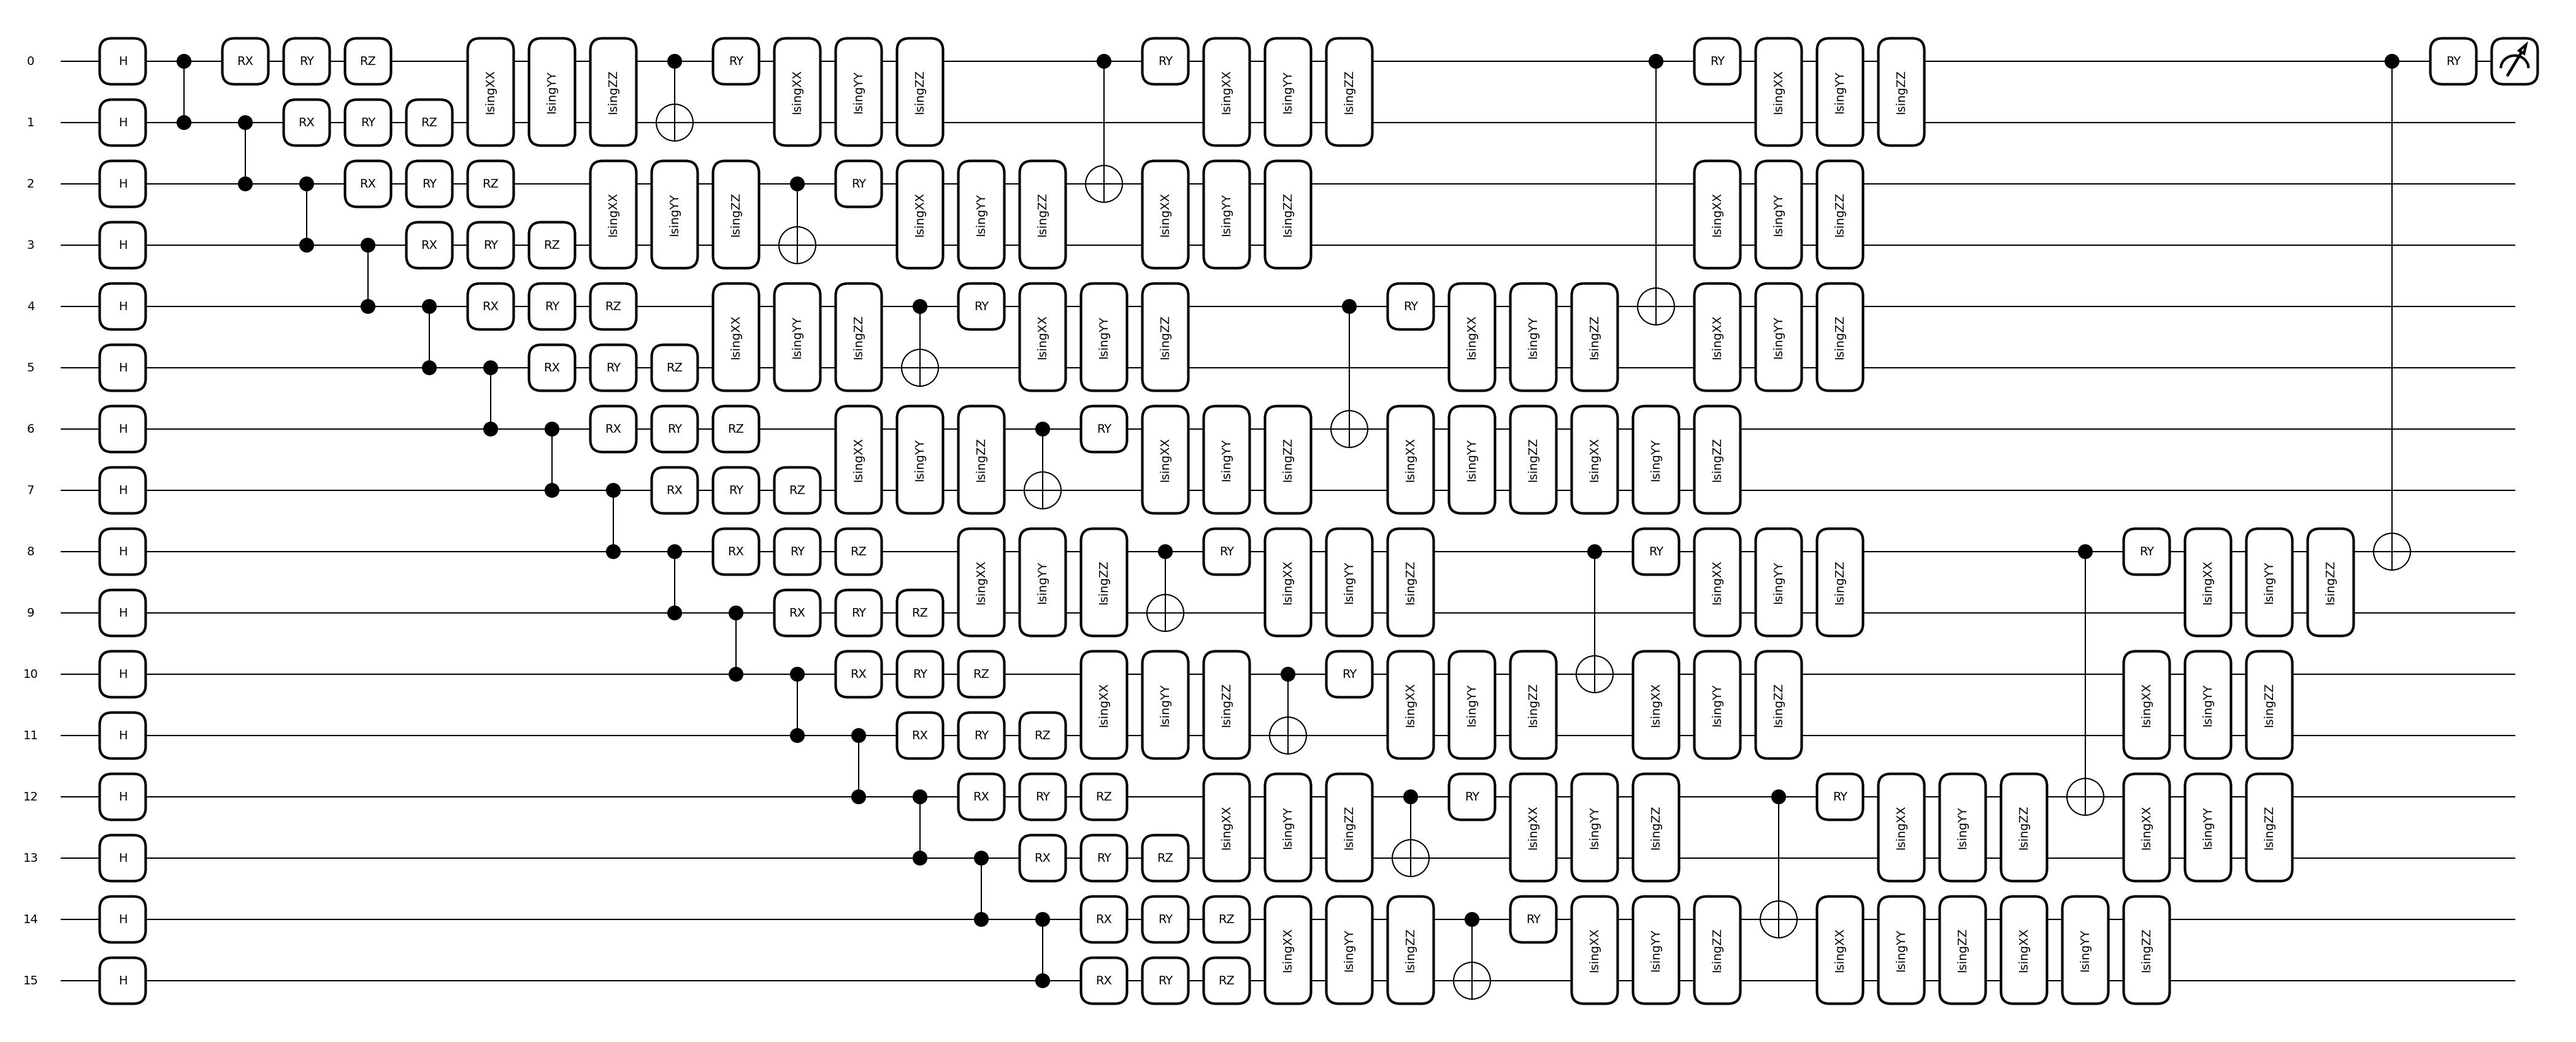
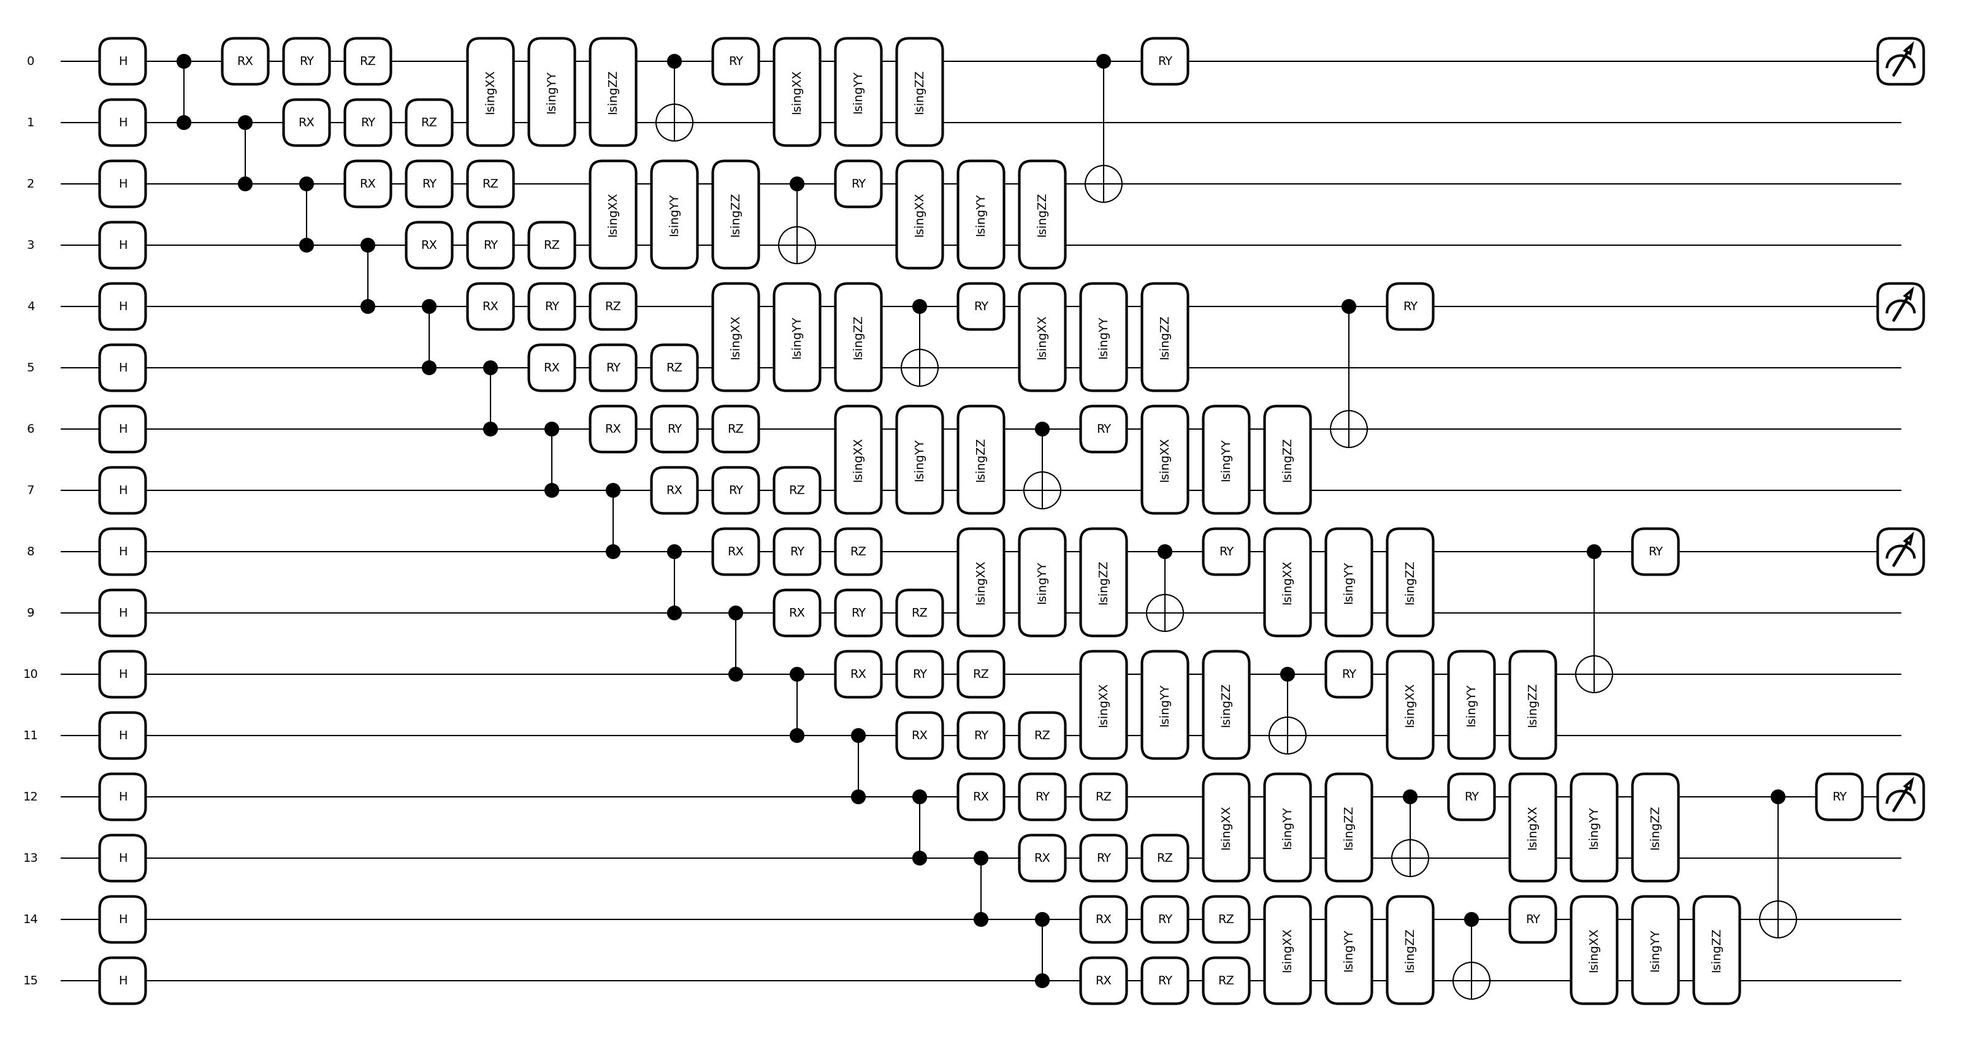
Added pure quantum NN

diff --git a/quantum_NN/quantum_nn.py b/quantum_NN/quantum_nn.py
@@ -1,76 +1,290 @@
+import torch
+import torch.nn as nn
+from torch.utils.data import DataLoader, TensorDataset
 import pennylane as qml
+from pennylane.qnn import TorchLayer
 import numpy as np
+import pickle as pkl
+import os
+import matplotlib.pyplot as plt
+import seaborn as sns
+from sklearn.metrics import confusion_matrix
+from tqdm import tqdm
+import math
 
+# ======== CONFIG =========
 NUM_QUBITS = 16
+NUM_CLASSES = 9
+LEARNING_RATE = 0.01
+BATCH_SIZE = 8
+EPOCHS = 50
+
+device = "cpu"
+
+# ======== DATA LOADING =========
+def open_pkl(path):
+    with open(path, 'rb') as f:
+        return pkl.load(f)
+
+def load_dataset(feature_type):
+    base = f"q_dataset/{feature_type}_features"
+    X_train = torch.stack(open_pkl(os.path.join(base, "mera_features_Train.pkl")))
+    y_train = torch.tensor(open_pkl(os.path.join(base, "mera_labels_Train.pkl"))).long()
+
+    X_test = torch.stack(open_pkl(os.path.join(base, "mera_features_Test.pkl")))
+    y_test = torch.tensor(open_pkl(os.path.join(base, "mera_labels_Test.pkl"))).long()
+
+    X_val = X_train[2175:]
+    y_val = y_train[2175:]
+    X_train = X_train[:2175]
+    y_train = y_train[:2175]
+
+    return (X_train, y_train), (X_val, y_val), (X_test, y_test)
+
+# ======== QCNN DEFINITION =========
 dev = qml.device("lightning.qubit", wires=NUM_QUBITS)
 
-# ---- State Preparation Layer (H + CZ for cluster state) ----
-def state_preparation():
-    # Apply haramard gate on all 16 qubits
-    """
-    $$
-\frac{1}{\root{}\of{2}}
-\begin{bmatrix}
-1 & 1 \\ 1 & -1
-\end{bmatrix}
-    $$
-    """
-    for i in range(NUM_QUBITS):
-        qml.Hadamard(wires=i)
+# -----------------------------------------------------------
+# Compute the number of trainable parameters in the QCNN model.
+#
+# 1. num_blocks:
+#    Determines how many conv + pool blocks the network will have.
+#    Since each pooling halves the number of qubits, the number of 
+#    blocks is log2(NUM_QUBITS) - 2 so that we stop when we have 4 qubits.
+#    e.g., for 32 qubits: log2(32) = 5 -> num_blocks = 3
+#
+# 2. total_conv_weights:
+#    For each block i, number of qubit pairs = NUM_QUBITS // 2^i - 1.
+#    Each pair has 3 parameters (IsingXX, IsingYY, IsingZZ).
+#    So for each block: (num_pairs) × 3
+#    e.g., for 32 qubits:
+#         Block 0: 15 pairs -> 45 params
+#         Block 1: 7 pairs -> 21 params
+#         Block 2: 3 pairs -> 9 params
+#         Total = 75 conv weights
+#
+# 3. total_pool_weights:
+#    For each block, after pooling, we keep half the qubits.
+#    Each of the kept qubits gets a single RY(θ) -> 1 param per kept qubit.
+#    e.g., for 32 qubits:
+#         Block 0: 16 kept -> 16 weights
+#         Block 1: 8 kept -> 8 weights
+#         Block 2: 4 kept -> 4 weights
+#         Total = 28 pool weights
+#
+# 4. total_params:
+#    Sum of conv + pool weights -> total number of weights to train.
+#
+# 5. weight_shapes:
+#    Passed into TorchLayer to initialize a flat trainable vector 
+#    of shape (total_params,), which will be sliced block-wise later.
+# -----------------------------------------------------------
+num_blocks = int(math.log2(NUM_QUBITS) - 2)
+total_conv_weights = sum((NUM_QUBITS // (2 ** i) - 1) * 3 for i in range(num_blocks))
+total_pool_weights = sum(NUM_QUBITS // (2 ** (i + 1)) for i in range(num_blocks))
+total_params = total_conv_weights + total_pool_weights
 
-    # Apply Controlled-Z gate on the two
-    # subsequent qubits
-    for i in range(NUM_QUBITS - 1):
-        qml.CZ(wires=[i, i + 1])
+weight_shapes = {"weights": (total_params,)}
 
-# ---- Feature Encoding Layer ----
-def encode_features(x):
-    # Encode each feature with RX, RY, RZ rotation
-    for i in range(NUM_QUBITS):
-        qml.RX(x[i], wires=i)
-        qml.RY(x[i], wires=i)
-        qml.RZ(x[i], wires=i)
+@qml.qnode(dev, interface="torch")
+def qcnn(inputs, weights):
+    def state_preparation():
+        for i in range(NUM_QUBITS):
+            qml.Hadamard(wires=i)
+        for i in range(NUM_QUBITS - 1):
+            qml.CZ(wires=[i, i + 1])
 
-# ---- Convolution Layer (Non-trainable for now) ----
-def conv_layer():
-    """
-    Introduces entanglement between qubits
-    Captures Correlations across both qubits
-    Acts like a quantum Conv filter
-    """
-    for i in range(0, NUM_QUBITS - 1, 2):
-        qml.IsingXX(np.pi/4, wires=[i, i+1])
-        qml.IsingYY(np.pi/4, wires=[i, i+1])
-        qml.IsingZZ(np.pi/4, wires=[i, i+1])
+    def encode_features(x):
+        for i in range(NUM_QUBITS):
+            qml.RX(x[i], wires=i)
+            qml.RY(x[i], wires=i)
+            qml.RZ(x[i], wires=i)
 
-# ---- Pooling Layer (reduce qubits by half) ----
-def pooling_layer(qubits):
-    """
-    Reduces the number of qubits by doing CNOT and RY
-    and only keeping the control qubits
-    """
-    new_qubits = []
-    for i in range(0, len(qubits), 2):
-        control, target = qubits[i], qubits[i+1]
-        qml.CNOT(wires=[control, target])
-        qml.RY(np.pi/4, wires=control)
-        new_qubits.append(control)  # Keep only control
-    return new_qubits
+    def conv_layer(qubits, weights):
+        for w_idx, i in enumerate(range(0, len(qubits) - 1, 2)):
+            qml.IsingXX(
+                weights[w_idx][0], wires=[qubits[i], qubits[i+1]]
+            )
+            qml.IsingYY(
+                weights[w_idx][1], wires=[qubits[i], qubits[i+1]]
+            )
+            qml.IsingZZ(
+                weights[w_idx][2], wires=[qubits[i], qubits[i+1]]
+            )
+            
+    def pooling_layer(qubits, theta):
+        new_qubits = []
+        for i in range(0, len(qubits), 2):
+            control, target = qubits[i], qubits[i+1]
+            qml.CNOT(wires=[control, target])
+            qml.RY(theta[i//2], wires=control)
+            new_qubits.append(control)
+        return new_qubits
 
-# ---- Full QCNN ----
-@qml.qnode(dev)
-def qcnn_forward(x):
     state_preparation()
-    encode_features(x)
+    encode_features(inputs)
 
-    qubits = list(range(NUM_QUBITS))  # 16 → 8 → 4 → 2 → 1
+    qubits = list(range(NUM_QUBITS))
+    idx = 0
+    for i in range(num_blocks):
+        num_pairs = len(qubits) // 2
+        conv_weights = weights[idx : idx + num_pairs * 3].reshape((num_pairs, 3))
+        idx += num_pairs * 3
 
-    while len(qubits) > 1:
-        conv_layer()
-        qubits = pooling_layer(qubits)
+        conv_layer(qubits, conv_weights)
 
-    return qml.expval(qml.PauliZ(qubits[0]))  # Final 1 qubit output
+        num_kept = len(qubits) // 2
+        pool_weights = weights[idx : idx + num_kept]
+        idx += num_kept
 
-dummy_input = np.random.uniform(0, 2 * np.pi, size=(16,))
-out = qcnn_forward(dummy_input)
-print("Output ⟨Z⟩:", out)
+        qubits = pooling_layer(qubits, pool_weights)
+
+    return [qml.expval(qml.PauliZ(q)) for q in qubits]
+
+torch_qcnn = TorchLayer(qcnn, weight_shapes)
+
+# ======== CLASSIFIER =========
+class QuantumPureQCNN(nn.Module):
+    def __init__(self):
+        super().__init__()
+        self.qnn = torch_qcnn
+        self.linear = nn.Linear(4, NUM_CLASSES)
+
+    def forward(self, x):
+        q_out = [self.qnn(xi) for xi in x]
+        q_out = torch.stack(q_out)
+        return self.linear(q_out)
+
+# ======== PLOTTING =========
+def plot_accuracy(train_acc, val_acc, feature_name):
+    plt.figure(figsize=(10, 5))
+    plt.plot(train_acc, label="Train Accuracy")
+    plt.plot(val_acc, label="Validation Accuracy")
+    plt.xlabel("Epoch")
+    plt.ylabel("Accuracy")
+    plt.title("Training vs Validation Accuracy")
+    plt.legend()
+    plt.grid()
+    plt.savefig(f"quantum_NN/results_{feature_name}/qcnn_accuracy_plot.png")
+    plt.show()
+
+def plot_confusion_matrix(y_true, y_pred, feature_name):
+    cm = confusion_matrix(y_true, y_pred)
+    plt.figure(figsize=(10, 8))
+    sns.heatmap(cm, annot=True, fmt='d', cmap="Blues")
+    plt.xlabel("Predicted")
+    plt.ylabel("True")
+    plt.title("Confusion Matrix")
+    plt.savefig(f"quantum_NN/results_{feature_name}/qcnn_confusion_matrix.png")
+    plt.show()
+
+# ======== TRAINING =========
+def train(model, train_loader, val_loader, feature_name, epochs):
+    model.to(device)
+    optimizer = torch.optim.Adam(model.parameters(), lr=LEARNING_RATE)
+    loss_fn = nn.CrossEntropyLoss()
+    train_accs, val_accs = [], []
+
+    for epoch in range(EPOCHS if not epochs else epochs):
+        model.train()
+        correct = 0
+        for X, y in tqdm(train_loader, desc=f"Epoch {epoch+1}/{EPOCHS if not epochs else epochs}"):
+            X, y = X.to(device), y.to(device)
+            optimizer.zero_grad()
+            out = model(X)
+            loss = loss_fn(out, y)
+            loss.backward()
+            optimizer.step()
+            correct += (out.argmax(1) == y).sum().item()
+
+        train_acc = correct / len(train_loader.dataset)
+        train_accs.append(train_acc)
+
+        model.eval()
+        with torch.no_grad():
+            correct = 0
+            all_preds, all_labels = [], []
+            for X, y in val_loader:
+                X, y = X.to(device), y.to(device)
+                out = model(X)
+                correct += (out.argmax(1) == y).sum().item()
+                all_preds.extend(out.argmax(1).cpu().numpy())
+                all_labels.extend(y.cpu().numpy())
+            val_acc = correct / len(val_loader.dataset)
+            val_accs.append(val_acc)
+        print(
+            f"Epoch {epoch+1}/{EPOCHS if not epochs else epochs} | Train Acc: {train_acc:.4f} | Val Acc: {val_acc:.4f}"
+        )
+
+    plot_accuracy(train_accs, val_accs, feature_name)
+    plot_confusion_matrix(all_labels, all_preds, feature_name)
+    return model
+
+# ======== SUMMARY =========
+def print_model_summary(model):
+    print("QCNN Model Summary")
+    print("=" * 50)
+    print("Quantum Layer:")
+    print(f"  Name: {type(model.qnn).__name__}")
+    total_q_params = sum(p.numel() for p in model.qnn.parameters())
+    print(f"  Trainable Quantum Params: {total_q_params}")
+    print("-" * 50)
+    print("Classical Linear Head:")
+    total_c_params = sum(p.numel() for p in model.linear.parameters())
+    print(f"  Linear Params: {total_c_params}")
+    print("=" * 50)
+    print(f"Total Trainable Parameters: {total_q_params + total_c_params}")
+
+# ======== RUN =========
+if __name__ == "__main__":
+    import argparse
+    parser = argparse.ArgumentParser()
+    parser.add_argument(
+        "--features",
+        type=str,
+        choices=[
+            "HOG", "PCA", "PATCH", 
+            "FRAC", "FRAC_ENTROPY"
+        ],
+        required=True,
+        help="Choose which feature set to use: HOG, PCA, PATCH or FRAC"
+    )
+    parser.add_argument(
+        "--batch",
+        type=int,
+        default=None,
+        required=False,
+        help="Choose batch size"
+    )
+    parser.add_argument(
+        "--epochs",
+        type=int,
+        default=None,
+        required=False,
+        help="Choose epochs to run on"
+    )
+    args = parser.parse_args()
+    os.makedirs(
+        f"quantum_NN/results_{args.features}",
+        exist_ok=True
+    )
+    (X_train, y_train), (X_val, y_val), _ = load_dataset(args.features)
+
+    train_loader = DataLoader(TensorDataset(X_train, y_train), batch_size=BATCH_SIZE, shuffle=True)
+    val_loader = DataLoader(TensorDataset(X_val, y_val), batch_size=BATCH_SIZE, shuffle=False)
+
+    model = QuantumPureQCNN()
+    print_model_summary(model)
+    model = train(
+        model, 
+        train_loader, 
+        val_loader, 
+        args.features, 
+        args.epochs
+    )
+    torch.save(
+        model.state_dict(), f"quantum_NN/results_{args.feature}/qcnn_model_weights.pth"
+    )
+    print(
+        f"Model saved to quantum_NN/results_{args.feature}/qcnn_model_weights.pth"
+    )

diff --git a/quantum_NN/quantum_cnn_visual.py b/quantum_NN/quantum_cnn_visual.py
@@ -59,18 +59,23 @@ def qcnn_forward(x):
     state_preparation()
     encode_features(x)
 
-    qubits = list(range(NUM_QUBITS))  # 16 → 8 → 4 → 2 → 1
+    qubits = list(range(NUM_QUBITS))  # 16 -> 8 -> 4 -> 2 -> 1
     print('QUBITS: ', qubits)
-    while len(qubits) > 1:
+    while len(qubits) > 4:
         conv_layer()
         qubits = pooling_layer(qubits)
         print('QUBITS: ', qubits)
 
+    return [
+        qml.expval(qml.PauliZ(q)) for q in qubits
+    ]  # Final 4 qubit output
 
-    return qml.expval(qml.PauliZ(qubits[0]))  # Final 1 qubit output
-
-dummy_input = np.random.uniform(0, 2 * np.pi, size=(16,))
+dummy_input = np.random.uniform(
+    -np.pi, 
+    np.pi, 
+    size=(NUM_QUBITS,)
+)
 out = qcnn_forward(dummy_input)
+print("Output PauliZ on Qubit 0:", out)
 qml.draw_mpl(qcnn_forward)(dummy_input)
 plt.savefig(r'quantum_NN/QCNN_Visualization.jpg')
-print("Output PauliZ on Qubit 0:", out)

diff --git a/quantum_hybrid_NN/quantum_hybrid_nn_mera.py b/quantum_hybrid_NN/quantum_hybrid_nn_mera.py
@@ -52,6 +52,7 @@ def mera_block(weights, wires):
 # ========== QNODE ==========
 dev = qml.device("lightning.qubit", wires=NUM_QUBITS)
 
+@qml.qnode(device='lightning.qubit', interface='torch')
 def qnode(inputs, weights):
     qml.AngleEmbedding(inputs, wires=range(NUM_QUBITS), rotation="Y")
     qml.templates.MERA(
@@ -63,9 +64,8 @@ def qnode(inputs, weights):
     )
     return [qml.expval(qml.PauliZ(i)) for i in range(NUM_QUBITS)]
 
-qnode_torch = qml.QNode(qnode, dev, interface="torch")
 weight_shapes = {"weights": (NUM_LAYERS, NUM_QUBITS // 2, 2)}
-q_layer = TorchLayer(qnode_torch, weight_shapes)
+q_layer = TorchLayer(qnode, weight_shapes)
 
 # ========== MODEL ==========
 class HybridModel(nn.Module):
